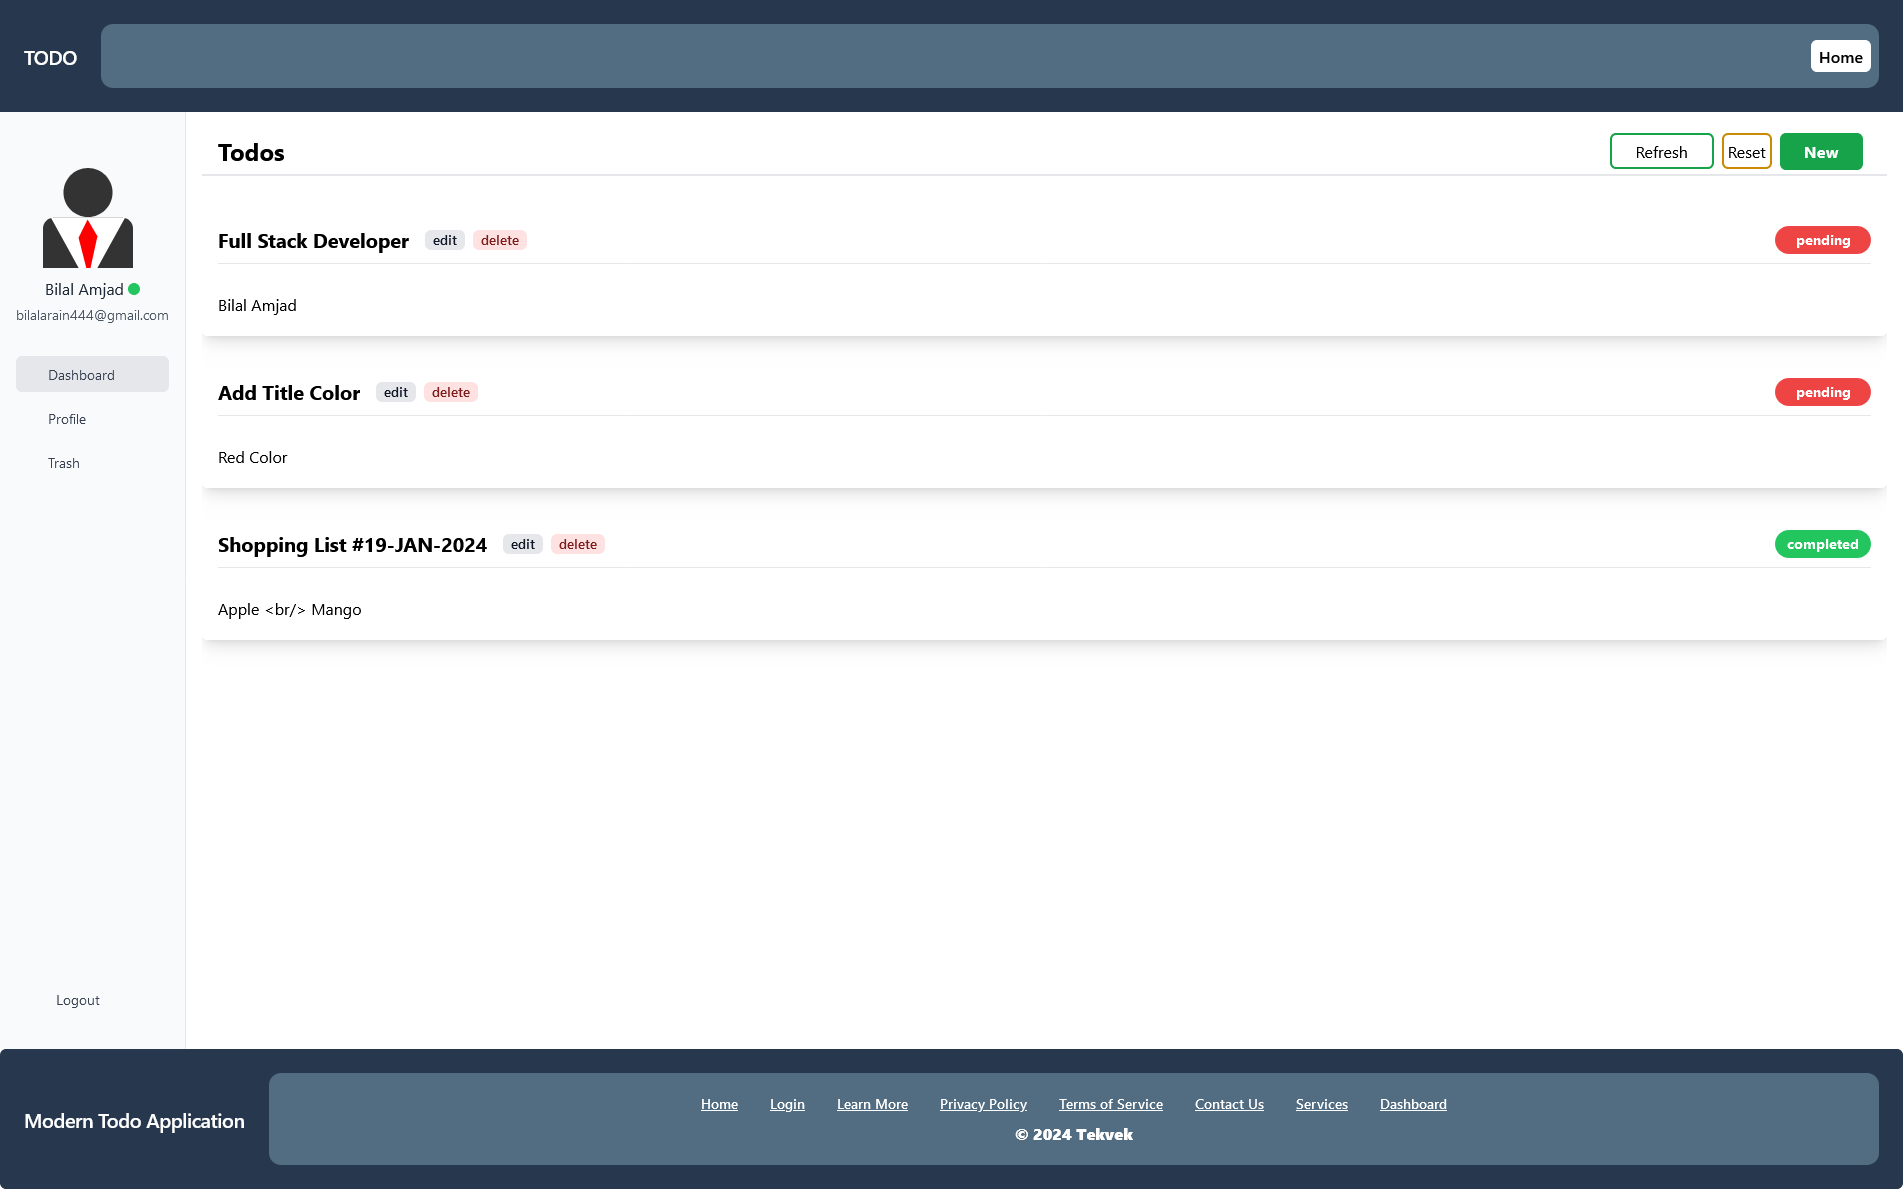
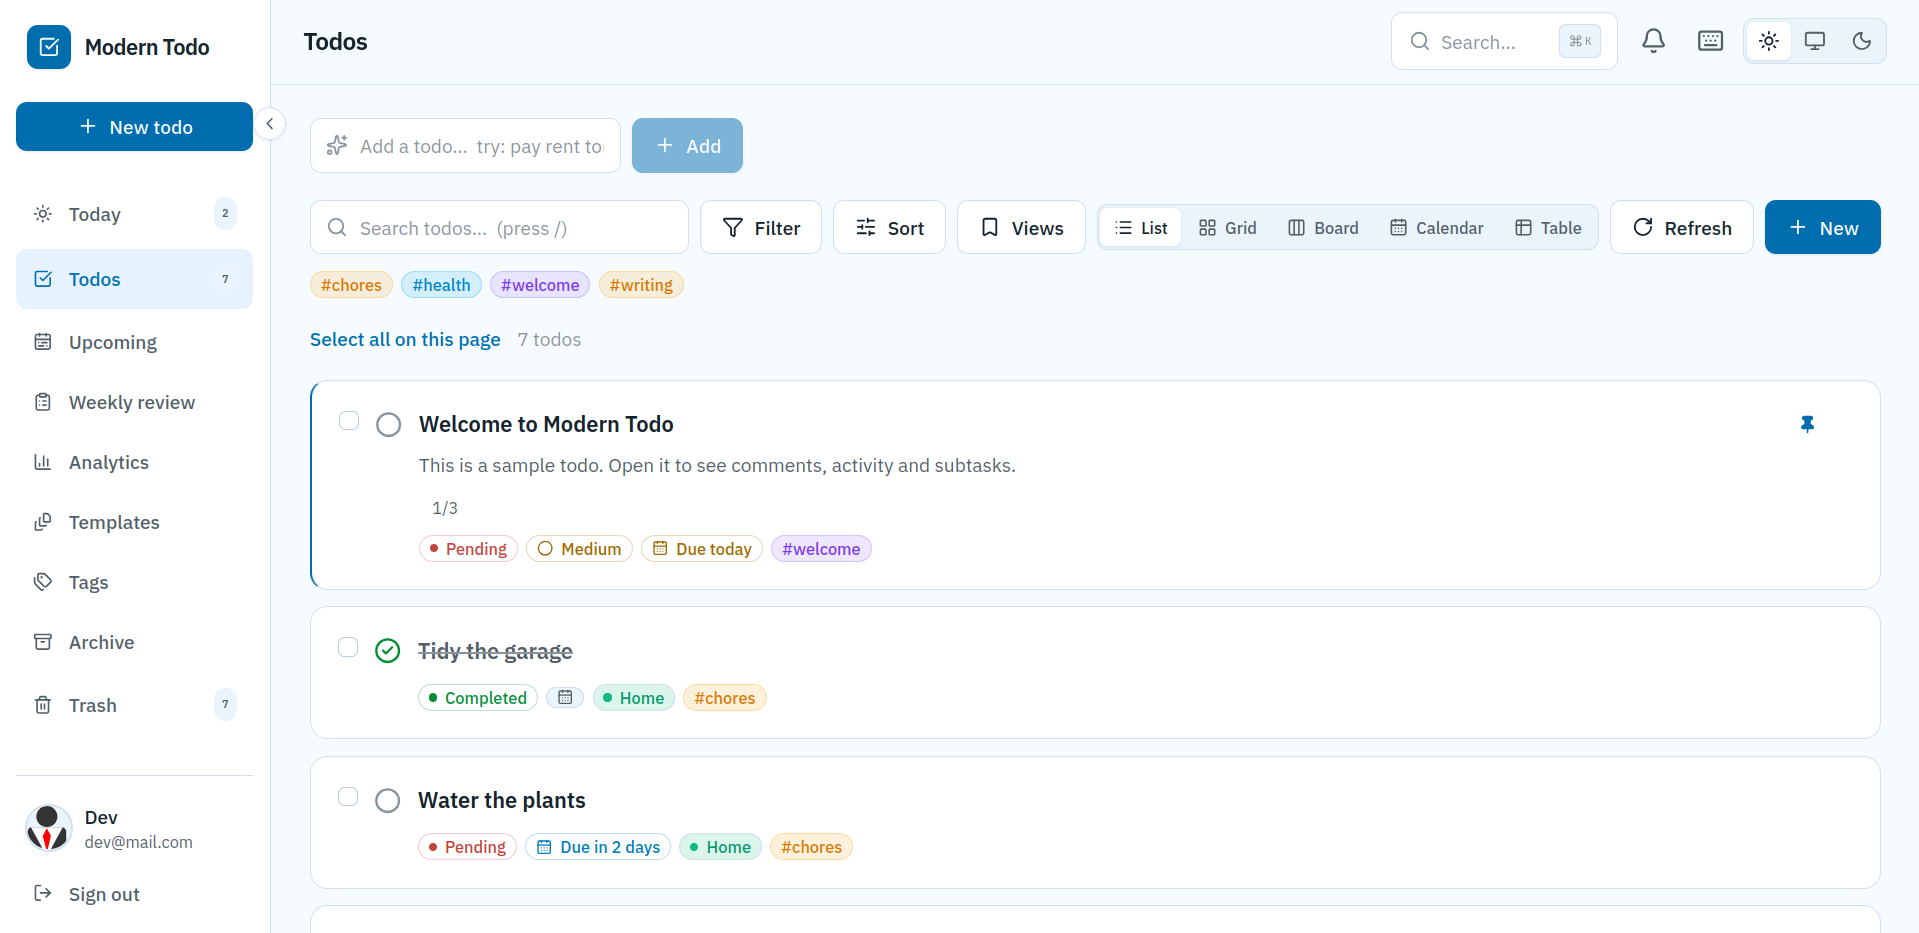
update

diff --git a/README.md b/README.md
@@ -6,7 +6,14 @@ A personal todo application — **one Next.js project**. The UI is Next.js 14 (A
 Router, TypeScript, Tailwind) and the REST API is Express + Mongoose, both served
 from a single custom server on a single port.
 
+### Home
+![Home](project-screenshots/home.png)
+
+### Dashboard
 ![Dashboard](project-screenshots/dashboard.png)
+
+### Profile
+![Dashboard](project-screenshots/profile.png)
 
 ## Features
 
@@ -268,39 +275,3 @@ public; everything else requires the session cookie (or an
 
 You are free to use this code for your own projects, modify it, or publish it
 anywhere. Please give me credit if you use it. (@Thedevelop3r), thanks.
-
-## Images
-
-> These screenshots predate the redesign and will be refreshed.
-
-### home
-
-![Home](project-screenshots/home.png)
-
-### dashboard
-
-![Dashboard](project-screenshots/dashboard.png)
-
-### create todo
-
-![Create Todo](project-screenshots/create-todo.png)
-
-### edit todo
-
-![Edit Todo](project-screenshots/edit-todo.png)
-
-### register
-
-![Register](project-screenshots/register.png)
-
-### login
-
-![Login](project-screenshots/login.png)
-
-### todo
-
-![Todo-Preview](project-screenshots/todo-preview.png)
-
-### trash
-
-![Trash](project-screenshots/trash.png)
